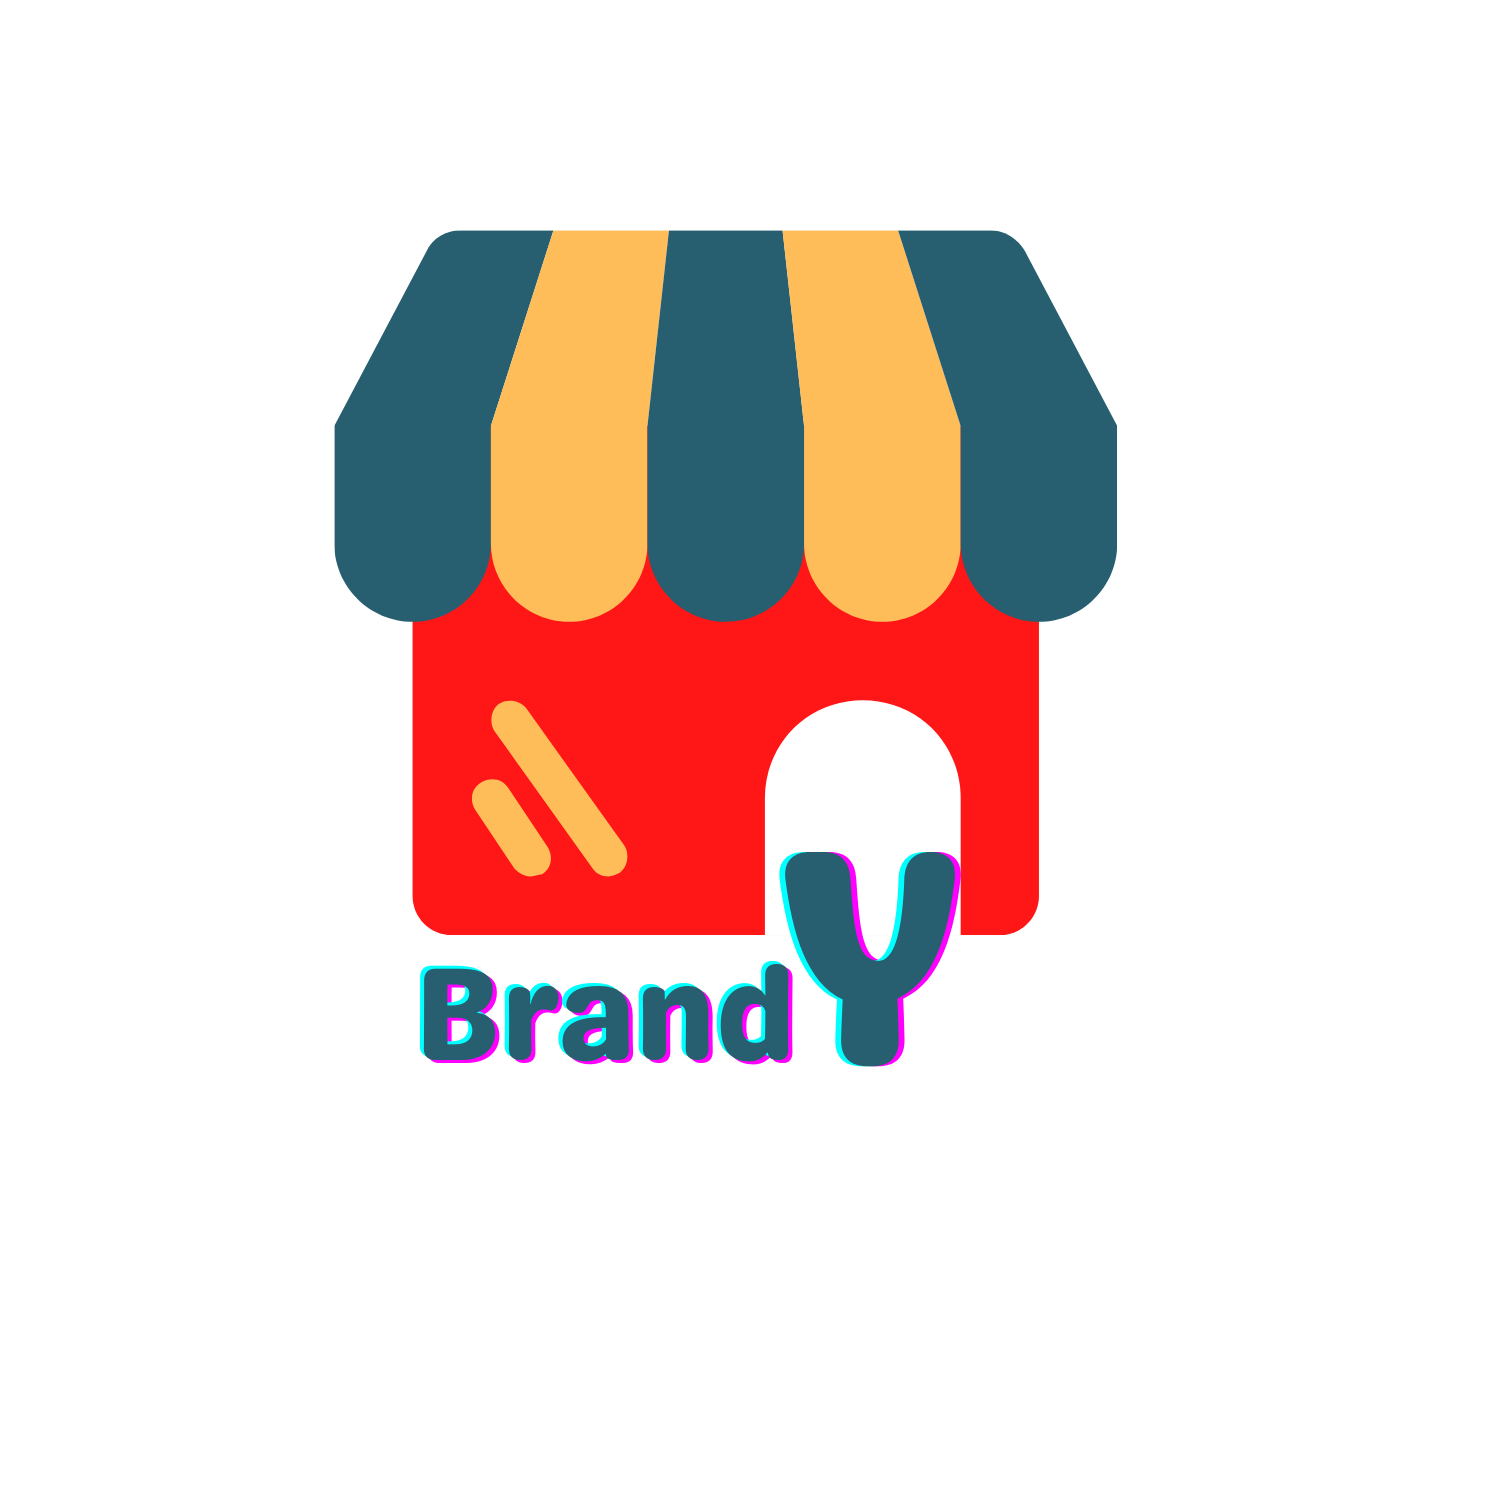
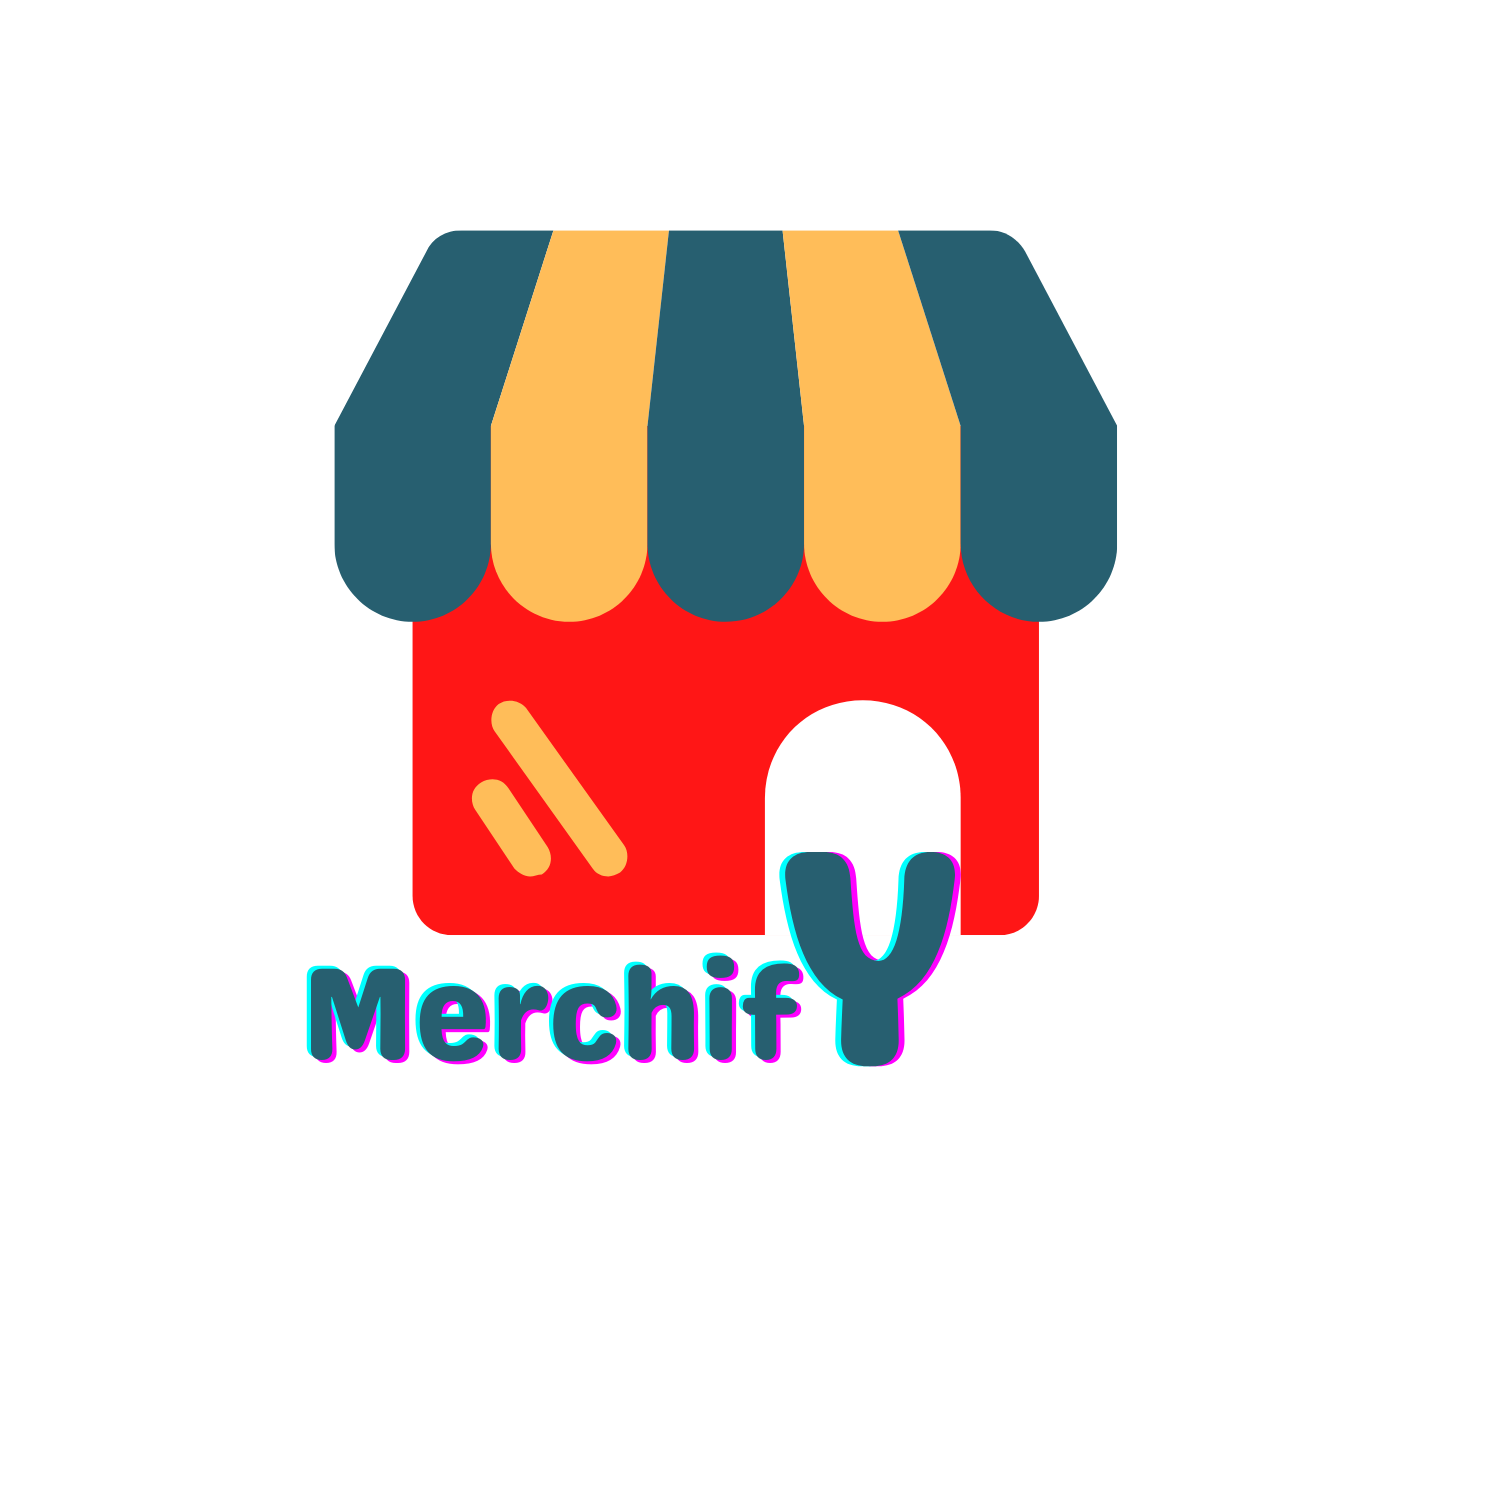
update

Changed region(s): [[0.184, 0.6133, 0.552, 0.736]]

diff --git a/apps/templates/includes/footer.html b/apps/templates/includes/footer.html
@@ -171,33 +171,14 @@
         <div class="row">
             <div class="col-sm-12 col-md-6">
                 <h6>About</h6>
-                <p class="text-justify">Brandy.com <i>E-Commerce needs to be simple</i> is an initiative to help the
-                    upcoming programmers with the code. Scanfcode focuses on providing the most efficient code or
-                    snippets as the code wants to be simple. We will help programmers build up concepts in different
-                    programming languages that include C, C++, Java, HTML, CSS, Bootstrap, JavaScript, PHP, Android, SQL
-                    and Algorithm.</p>
+                <p class="text-justify">MerchifY <i>E-Commerce needs to be simple</i> iThe aim of this website is to give the user an interactive way of where they can come and create their own merchandise and then place their order for it. </p>
             </div>
 
             <div class="col-xs-6 col-md-3">
-                <h6>Categories</h6>
+                <h6>About Us</h6>
                 <ul class="footer-links">
-                    <li><a href="http://scanfcode.com/category/c-language/">C</a></li>
-                    <li><a href="http://scanfcode.com/category/front-end-development/">UI Design</a></li>
-                    <li><a href="http://scanfcode.com/category/back-end-development/">PHP</a></li>
-                    <li><a href="http://scanfcode.com/category/java-programming-language/">Java</a></li>
-                    <li><a href="http://scanfcode.com/category/android/">Android</a></li>
-                    <li><a href="http://scanfcode.com/category/templates/">Templates</a></li>
-                </ul>
-            </div>
-
-            <div class="col-xs-6 col-md-3">
-                <h6>Quick Links</h6>
-                <ul class="footer-links">
-                    <li><a href="http://scanfcode.com/about/">About Us</a></li>
-                    <li><a href="http://scanfcode.com/contact/">Contact Us</a></li>
-                    <li><a href="http://scanfcode.com/contribute-at-scanfcode/">Contribute</a></li>
-                    <li><a href="http://scanfcode.com/privacy-policy/">Privacy Policy</a></li>
-                    <li><a href="http://scanfcode.com/sitemap/">Sitemap</a></li>
+                    <li>myemail@gmail.com</li>
+                    <li>myphonenumber</li>
                 </ul>
             </div>
         </div>
@@ -207,17 +188,8 @@
         <div class="row">
             <div class="col-md-8 col-sm-6 col-xs-12">
                 <p class="copyright-text">Copyright &copy; 2022 All Rights Reserved by
-                    <a href="#">Mihir Tandon</a>.
+                    Mihir Tandon
                 </p>
-            </div>
-
-            <div class="col-md-4 col-sm-6 col-xs-12">
-                <ul class="social-icons">
-                    <li><a class="facebook" href="#"><i class="fa fa-facebook"></i></a></li>
-                    <li><a class="twitter" href="#"><i class="fa fa-twitter"></i></a></li>
-                    <li><a class="dribbble" href="#"><i class="fa fa-dribbble"></i></a></li>
-                    <li><a class="linkedin" href="#"><i class="fa fa-linkedin"></i></a></li>
-                </ul>
             </div>
         </div>
     </div>

diff --git a/apps/templates/home/landing.html b/apps/templates/home/landing.html
@@ -202,7 +202,7 @@
 {% block content %}
 
 <div class="containerr">
-  <h3 class="landing-title">Brandy</h3>
+  <h3 class="landing-title">MerchifY</h3>
   <p class="landing-descp">A simple solution for creating and selling products that engage</p>
   <p class="landing-descp"> your fans and help you monetize your content.</p>
   <p class="landing-descp">No cost, no hassle, no risk.</p>
@@ -220,7 +220,7 @@
     </div>
   </div>
   <div class="row row-second">
-    <h4 class="rs-head">Want to create and sell your own products? Get started on BrandY</h4>
+    <h4 class="rs-head">Want to create and sell your own products? Get started on MerchifY</h4>
     <a href="{% url 'branding' %}"><button class="rs-btn btn-3 custom-btn-3">Start Creating</button></a>
   </div>
 </div>

diff --git a/apps/templates/accounts/login.html b/apps/templates/accounts/login.html
@@ -51,13 +51,7 @@
                   </div>
                   <a href="{% url 'register' %}" class="auth-link text-black">Create Account</a>
                 </div>
-                <div class="text-center mt-4 fw-light">
-                  &copy; <a target="_blank" href="https://bit.ly/2UTgih5">BootstrapDash</a>
-                   - coded by AppSeed.
-                  <br/><br/>
-                  <a target="_blank"
-                     href="https://appseed.us/admin-dashboards/django-star-admin">Download Product</a>
-                </div>
+
               </form>
             </div>
           </div>

diff --git a/apps/templates/accounts/register.html b/apps/templates/accounts/register.html
@@ -65,13 +65,6 @@
                   </div>
                   <a href="{% url 'login' %}" class="auth-link text-black">Login</a>
                 </div>
-                <div class="text-center mt-4 fw-light">
-                  &copy; <a target="_blank" href="https://bit.ly/2UTgih5">BootstrapDash</a> 
-                  - coded by AppSeed.
-                  <br/><br/>
-                  <a target="_blank"
-                     href="https://appseed.us/admin-dashboards/django-star-admin">Download Product</a>
-                </div>
               </form>
             </div>
           </div>

diff --git a/apps/templates/home/dashboard.html b/apps/templates/home/dashboard.html
@@ -31,7 +31,7 @@
         background-image: url('/static/assets/images/landing/landingbck.png');
     }
     .integrate-s {
-        background-image: url("/static/assets/images/integration_overview.png");
+        background-image: url("/static/assets/images/create_overview.png");
         background-position: center;
         background-repeat: no-repeat;
         text-align: center;
